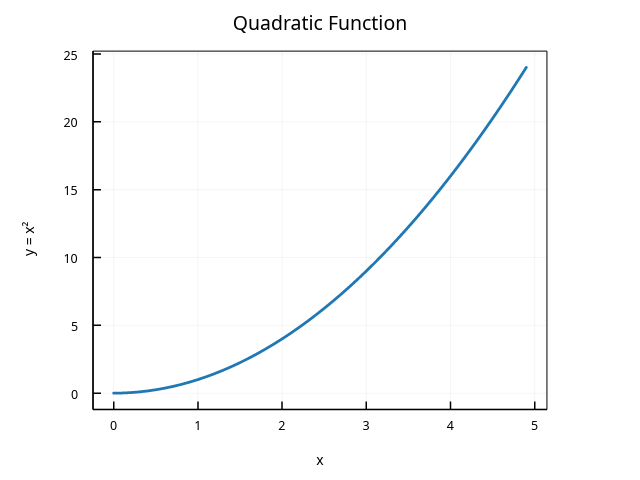
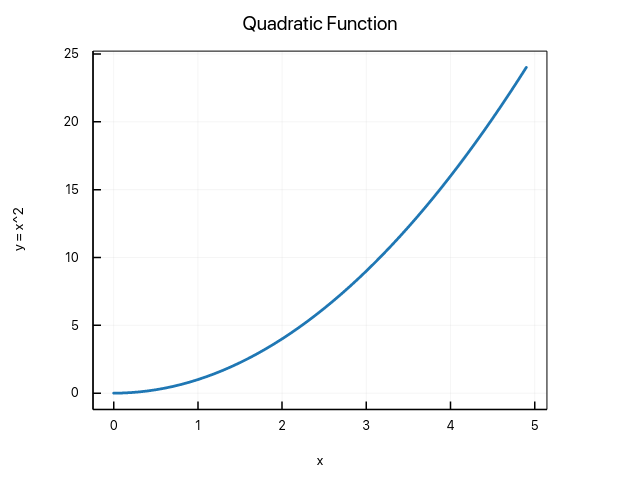
docs/examples: adopt Typst math snippets and normalize fallback labels

diff --git a/examples/reactive_example.rs b/examples/reactive_example.rs
@@ -72,15 +72,15 @@ fn derived_observables() {
     let cubed = lift(&x, |v| v * v * v);
 
     println!("x = {}", *x.read());
-    println!("x² = {} (auto-computed)", *squared.read());
-    println!("x³ = {} (auto-computed)", *cubed.read());
+    println!("x^2 = {} (auto-computed)", *squared.read());
+    println!("x^3 = {} (auto-computed)", *cubed.read());
 
     // Update x - derived values update automatically!
     x.set(4.0);
     println!("\nAfter x.set(4.0):");
     println!("x = {}", *x.read());
-    println!("x² = {} (auto-updated)", *squared.read());
-    println!("x³ = {} (auto-updated)", *cubed.read());
+    println!("x^2 = {} (auto-updated)", *squared.read());
+    println!("x^3 = {} (auto-updated)", *cubed.read());
 
     // lift2 for combining two observables
     let a = Observable::new(10.0);

diff --git a/examples/streaming_example.rs b/examples/streaming_example.rs
@@ -52,13 +52,17 @@ fn basic_streaming() {
     println!("Total length: {}", stream.len());
 
     // Create a plot from streaming data
-    Plot::new()
+    let plot = Plot::new()
         .line_streaming(&stream)
         .color(Color::new(31, 119, 180))
-        .title("Streaming Line Plot (x²)")
         .xlabel("X")
-        .ylabel("Y")
-        .save("examples/output/streaming_basic.png")
+        .ylabel("Y");
+    #[cfg(feature = "typst-math")]
+    let plot = plot.title("Streaming Line Plot ($x^2$)").typst(true);
+    #[cfg(not(feature = "typst-math"))]
+    let plot = plot.title("Streaming Line Plot (x^2)");
+
+    plot.save("examples/output/streaming_basic.png")
         .expect("Failed to save plot");
 
     println!("Saved: examples/output/streaming_basic.png\n");

diff --git a/examples/annotations_example.rs b/examples/annotations_example.rs
@@ -14,11 +14,16 @@ fn main() -> Result<()> {
     let y_lower: Vec<f64> = y.iter().map(|&yi| (yi - 1.0).max(0.0)).collect();
 
     // Create plot with annotations
-    Plot::new()
+    let plot = Plot::new()
         .line(&x, &y)
         .title("Annotations Demo")
-        .xlabel("X")
-        .ylabel("Y = X² / 10")
+        .xlabel("X");
+    #[cfg(feature = "typst-math")]
+    let plot = plot.ylabel("$Y = X^2 / 10$").typst(true);
+    #[cfg(not(feature = "typst-math"))]
+    let plot = plot.ylabel("Y = X^2 / 10");
+
+    plot
         // Add text annotation at peak
         .annotate(Annotation::text(9.0, 8.0, "Peak region"))
         // Add an arrow pointing to a specific data point

diff --git a/examples/readme_quickstart.rs b/examples/readme_quickstart.rs
@@ -5,12 +5,17 @@ fn main() -> Result<()> {
     let x: Vec<f64> = (0..50).map(|i| i as f64 * 0.1).collect();
     let y: Vec<f64> = x.iter().map(|&x| x * x).collect();
 
-    Plot::new()
+    let plot = Plot::new()
         .line(&x, &y)
         .title("Quadratic Function")
-        .xlabel("x")
-        .ylabel("y = x²")
-        .save("assets/readme_example.png")?;
+        .xlabel("x");
+
+    #[cfg(feature = "typst-math")]
+    let plot = plot.ylabel("$y = x^2$").typst(true);
+    #[cfg(not(feature = "typst-math"))]
+    let plot = plot.ylabel("y = x^2");
+
+    plot.save("assets/readme_example.png")?;
 
     println!("✓ Generated assets/readme_example.png");
     Ok(())

diff --git a/examples/typst_check.rs b/examples/typst_check.rs
@@ -12,13 +12,13 @@ fn run() -> Result<()> {
 
     // Plain and Typst outputs are generated side-by-side for visual parity checks.
     let title_plain = "Parity Check: f(x) = e^-x";
-    let title_typst = "Parity Check: $f(x) = e^{-x}$";
+    let title_typst = "Parity Check: $f(x) = e^(-x)$";
     let xlabel_plain = "Time t";
     let xlabel_typst = "Time $t$";
     let ylabel_plain = "Amplitude A(t)";
     let ylabel_typst = "Amplitude $A(t)$";
     let legend_plain = "e^-x";
-    let legend_typst = "$e^{-x}$";
+    let legend_typst = "$e^(-x)$";
 
     let plain_plot = Plot::new()
         .line(&x, &y)

diff --git a/examples/doc_typst_text.rs b/examples/doc_typst_text.rs
@@ -11,8 +11,8 @@ fn run() -> Result<()> {
 
     Plot::new()
         .line(&x, &y)
-        .label("$e^{-x}$")
-        .title("Exponential Decay: $f(x) = e^{-x}$")
+        .label("$e^(-x)$")
+        .title("Exponential Decay: $f(x) = e^(-x)$")
         .xlabel("Time $t$")
         .ylabel("Amplitude $A(t)$")
         .typst(true)

diff --git a/src/lib.rs b/src/lib.rs
@@ -654,7 +654,7 @@
 //!     .line(&x, &y)
 //!     .title("Quadratic Function")
 //!     .xlabel("x")
-//!     .ylabel("y = x²")
+//!     .ylabel("y = x^2")
 //!     .save("plot.png")?;
 //! # Ok::<(), Box<dyn std::error::Error>>(())
 //! ```

diff --git a/docs/QUICKSTART.md b/docs/QUICKSTART.md
@@ -30,7 +30,7 @@ fn main() -> Result<()> {
         .line(&x, &y)
         .title("My First Plot")
         .xlabel("x")
-        .ylabel("y = x²")
+        .ylabel("y = x^2")
         .save("plot.png")?;
 
     println!("Plot saved to plot.png!");
@@ -44,6 +44,34 @@ cargo run --release
 ```
 
 You should now have a `plot.png` file in your project directory!
+
+## Optional: Math Labels with Typst
+
+If you want publication-style math in labels and titles, enable Typst text rendering:
+
+```toml
+[dependencies]
+ruviz = { version = "0.1", features = ["typst-math"] }
+```
+
+```rust
+use ruviz::prelude::*;
+
+fn main() -> Result<()> {
+    let x = vec![0.0, 1.0, 2.0, 3.0, 4.0];
+    let y = vec![0.0, 1.0, 4.0, 9.0, 16.0];
+
+    Plot::new()
+        .line(&x, &y)
+        .title("Quadratic: $y = x^2$")
+        .xlabel("$x$")
+        .ylabel("$y$")
+        .typst(true)
+        .save("plot_typst.png")?;
+
+    Ok(())
+}
+```
 
 ## Your First Real Plot
 

diff --git a/README.md b/README.md
@@ -19,9 +19,11 @@ Plot::new()
     .line(&x, &y)
     .title("Quadratic Function")
     .xlabel("x")
-    .ylabel("y = x²")
+    .ylabel("y = x^2")
     .save("plot.png")?;
 ```
+
+Need typeset math labels? See [Typst Text Mode](#typst-text-mode) below.
 
 ![Example Plot](assets/readme_example.png)
 
@@ -111,7 +113,7 @@ let y: Vec<f64> = x.iter().map(|&v| (-v).exp()).collect();
 
 Plot::new()
     .line(&x, &y)
-    .title("$f(x) = e^{-x}$")
+    .title("$f(x) = e^(-x)$")
     .xlabel("$x$")
     .ylabel("$f(x)$")
     .typst(true)

diff --git a/docs/guide/03_first_plot.md b/docs/guide/03_first_plot.md
@@ -43,7 +43,7 @@ fn main() -> Result<(), Box<dyn std::error::Error>> {
 cargo run
 ```
 
-**Output**: `my_first_plot.png` with a line plot of y = x²
+**Output**: `my_first_plot.png` with a line plot of y = x^2
 
 ## Understanding the Code
 
